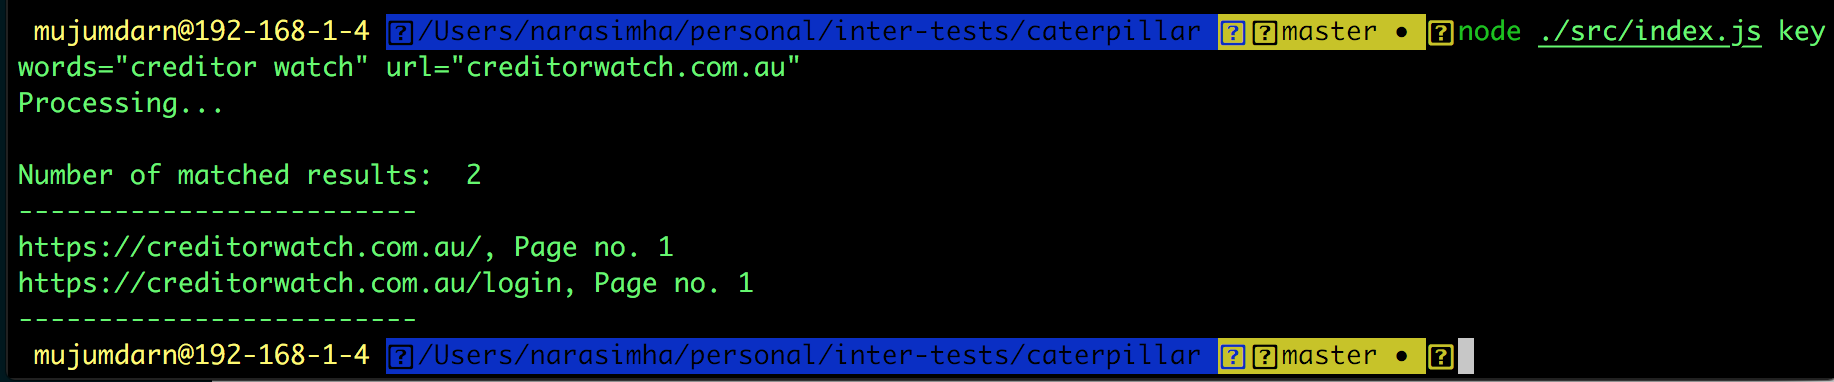
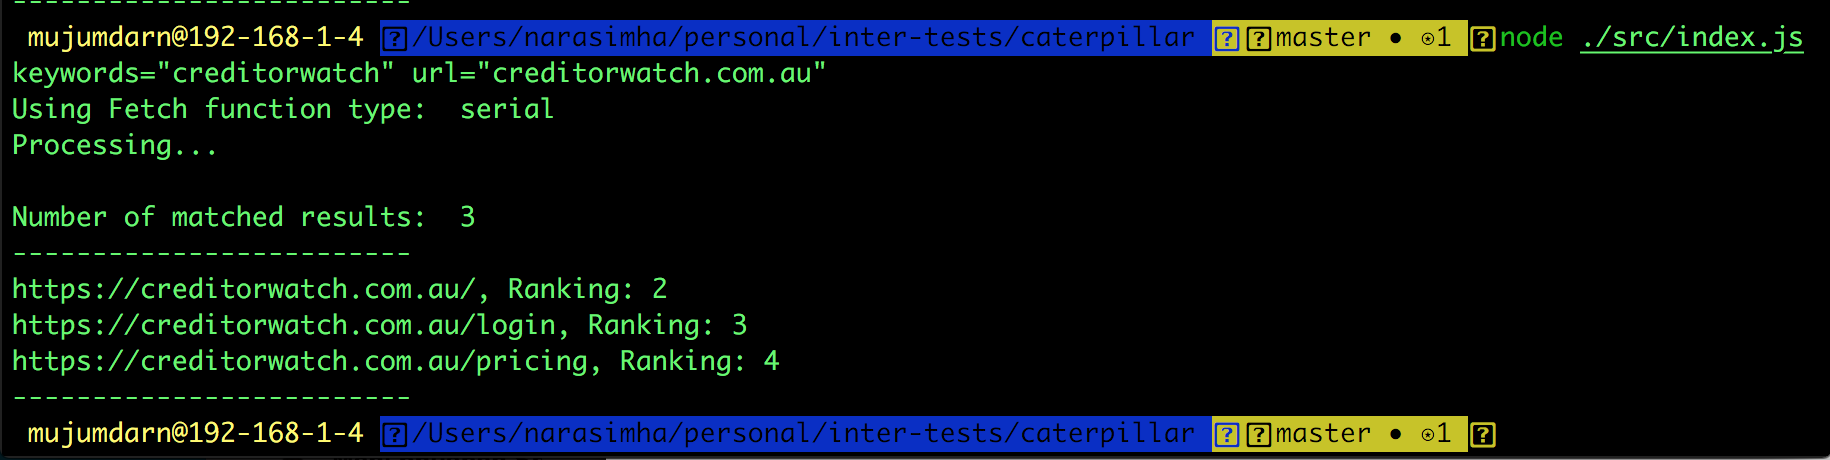
Changed to show ranking instead of page no

Changed region(s): [[0.0, 0.0, 0.9967, 1.0], [0.9967, 0.9791, 1.0, 1.0]]

diff --git a/src/link-counter/counter.js b/src/link-counter/counter.js
@@ -20,12 +20,13 @@ function areTheSameDomainName(link1, link2) {
   return link1Domain.toLowerCase() === link2Domain.toLowerCase()
 }
 
-function addMatchingLinksToLedger(ledger, result, urlToLookFor) {
+function addMatchingLinksToLedger(ledger, result, urlToLookFor, ranking) {
   const matchedLinks = result.links.reduce((acc,link)=>{
+    ranking++
     if(areTheSameDomainName(link, urlToLookFor)) {
       acc.push({
         link: link,
-        pageNumber: result.pageNumber
+        ranking: ranking
       })
     }
     return acc;
@@ -35,6 +36,8 @@ function addMatchingLinksToLedger(ledger, result, urlToLookFor) {
 
 function create() {
   const emitter = new LinkCountEmitter();
+  // maintains the ranking of the link
+  let ranking = 0;
   return {
     eventEmitter: emitter,
     count: (urlToLookFor, sourceEmitter) => {
@@ -42,7 +45,7 @@ function create() {
 
       sourceEmitter.on(events.ResultsFetched, (results) => {
         results.forEach((result)=>{
-          addMatchingLinksToLedger(ledger, result, urlToLookFor);
+          addMatchingLinksToLedger(ledger, result, urlToLookFor, ranking);
         });
       });
 

diff --git a/tests/link-counter/counter.spec.js b/tests/link-counter/counter.spec.js
@@ -24,21 +24,17 @@ describe('Given link counter',()=>{
       const sourceEmitter = new TestEmitter();
       const results = [
         {
-          links: [('https://'+domainToLookFor), 'https://not-domain-looking-for.com'],
+          links: [('https://'+domainToLookFor), 'https://not-domain-looking-for.com',('http://'+domainToLookFor)],
           pageNumber: 1
-        },
-        {
-          links: [('https://'+domainToLookFor), 'https://not-domain-looking-for.com'],
-          pageNumber: 2
         }
       ];
 
       counter.eventEmitter.on(linkCounter.SuccessEvent, (payload)=>{
         expect(payload.length).to.be.equal(2);
         expect(payload[0].link).to.be.equal(results[0].links[0]);
-        expect(payload[0].pageNumber).to.be.equal(results[0].pageNumber);
-        expect(payload[1].link).to.be.equal(results[1].links[0]);
-        expect(payload[1].pageNumber).to.be.equal(results[1].pageNumber);
+        expect(payload[0].ranking).to.be.equal(1);
+        expect(payload[1].link).to.be.equal(results[0].links[2]);
+        expect(payload[1].ranking).to.be.equal(3);
         done();
       });
 

diff --git a/src/index.js b/src/index.js
@@ -17,7 +17,7 @@ function subscribeToCounterEvents(eventEmitter) {
     console.log("Number of matched results: ", ledger.length)
     console.log("-------------------------");
     ledger.forEach((entry)=>{
-      console.log(entry.link+ ", Page no. "+(entry.pageNumber+1));
+      console.log(entry.link+ ", Ranking: "+(entry.ranking));
     });
     console.log("-------------------------");
   });
